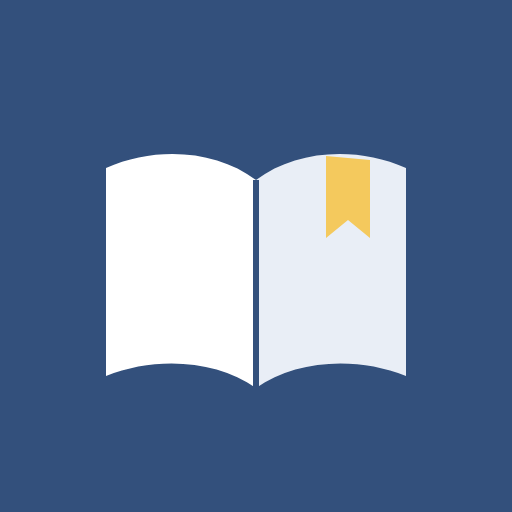
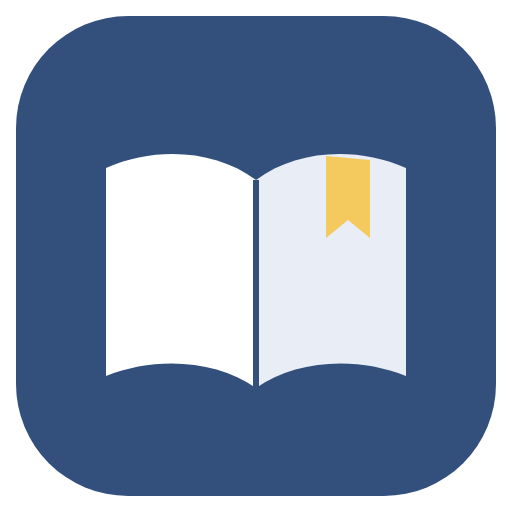
앱 아이콘: 둥근 모서리로 다듬기

Changed region(s): [[0.0, 0.0, 1.0, 1.0]]

diff --git a/index.html b/index.html
@@ -5,9 +5,10 @@
 <meta name="viewport" content="width=device-width,initial-scale=1,viewport-fit=cover">
 <meta name="robots" content="noindex,nofollow">
 <title>화요책방</title>
-<link rel="icon" type="image/png" sizes="192x192" href="icons/icon-192.png">
+<link rel="icon" type="image/png" sizes="48x48" href="icons/icon-48.png?v=2">
+<link rel="icon" type="image/png" sizes="192x192" href="icons/icon-192.png?v=2">
 <link rel="apple-touch-icon" href="icons/apple-touch-icon.png">
-<link rel="manifest" href="manifest.webmanifest">
+<link rel="manifest" href="manifest.webmanifest?v=2">
 <meta name="description" content="매주 화요일 아침 회의에서 함께 공유한 책과 챕터 스캔본 · 연구처 · 산학협력단">
 <meta property="og:type" content="website">
 <meta property="og:site_name" content="화요책방">
